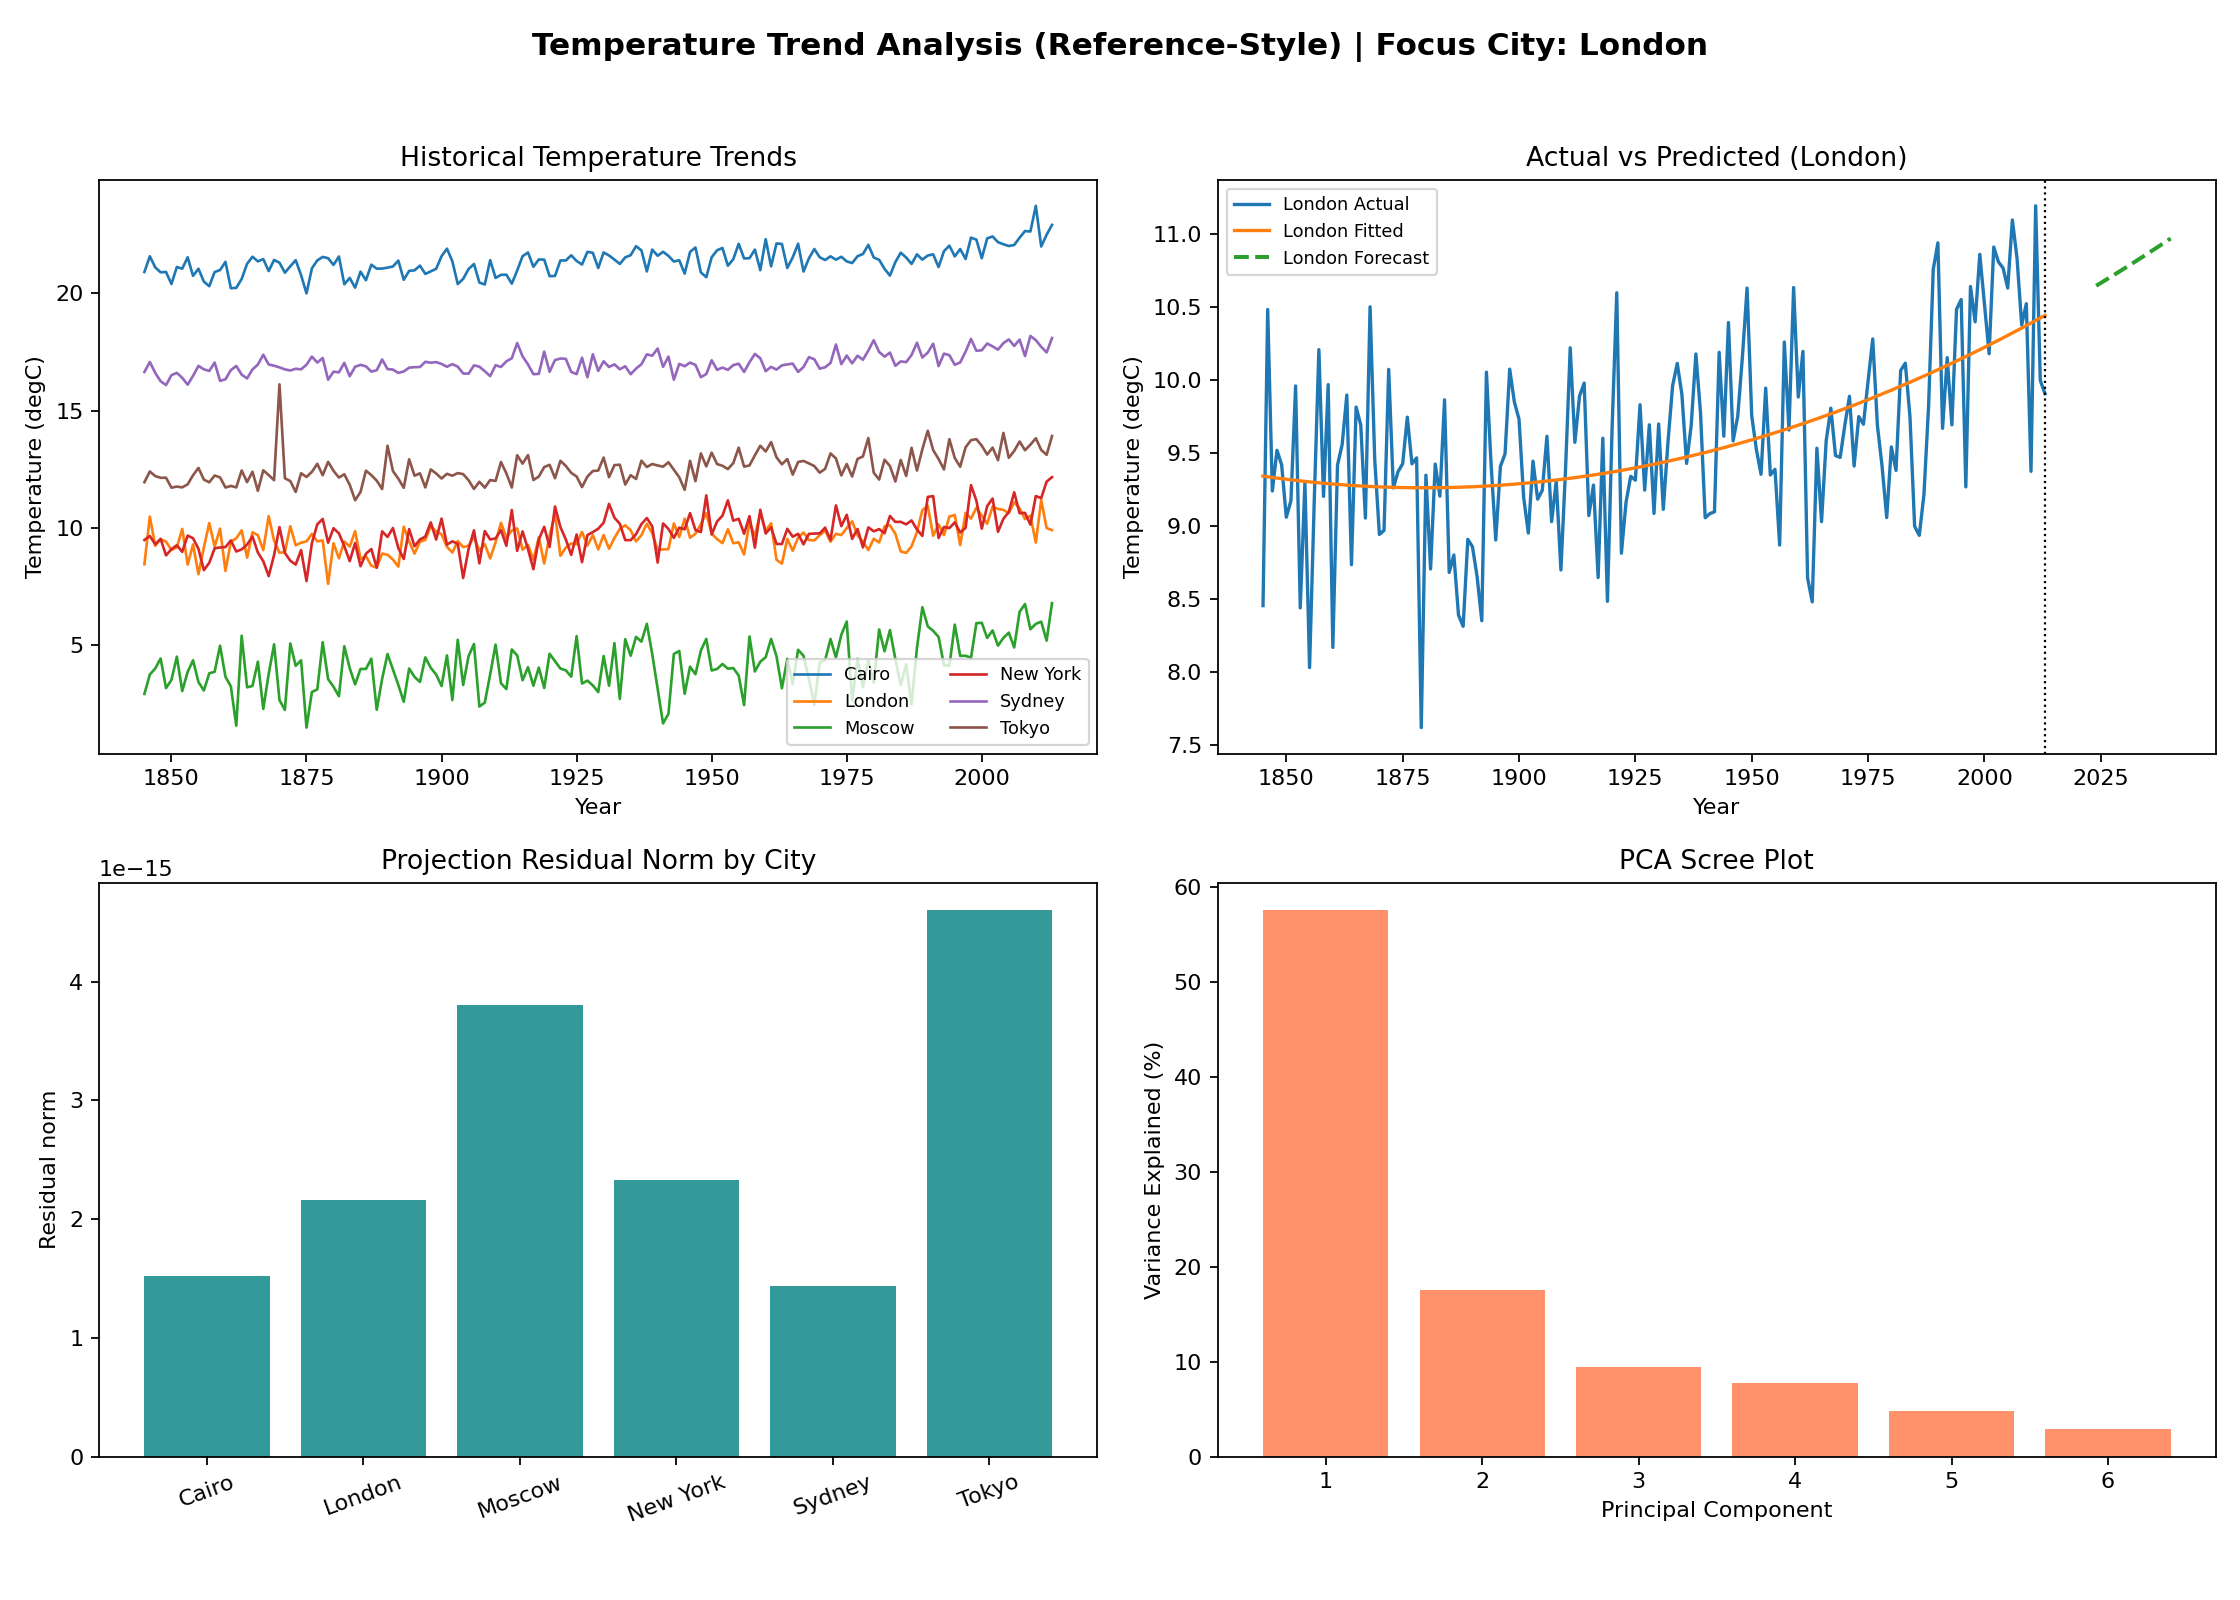
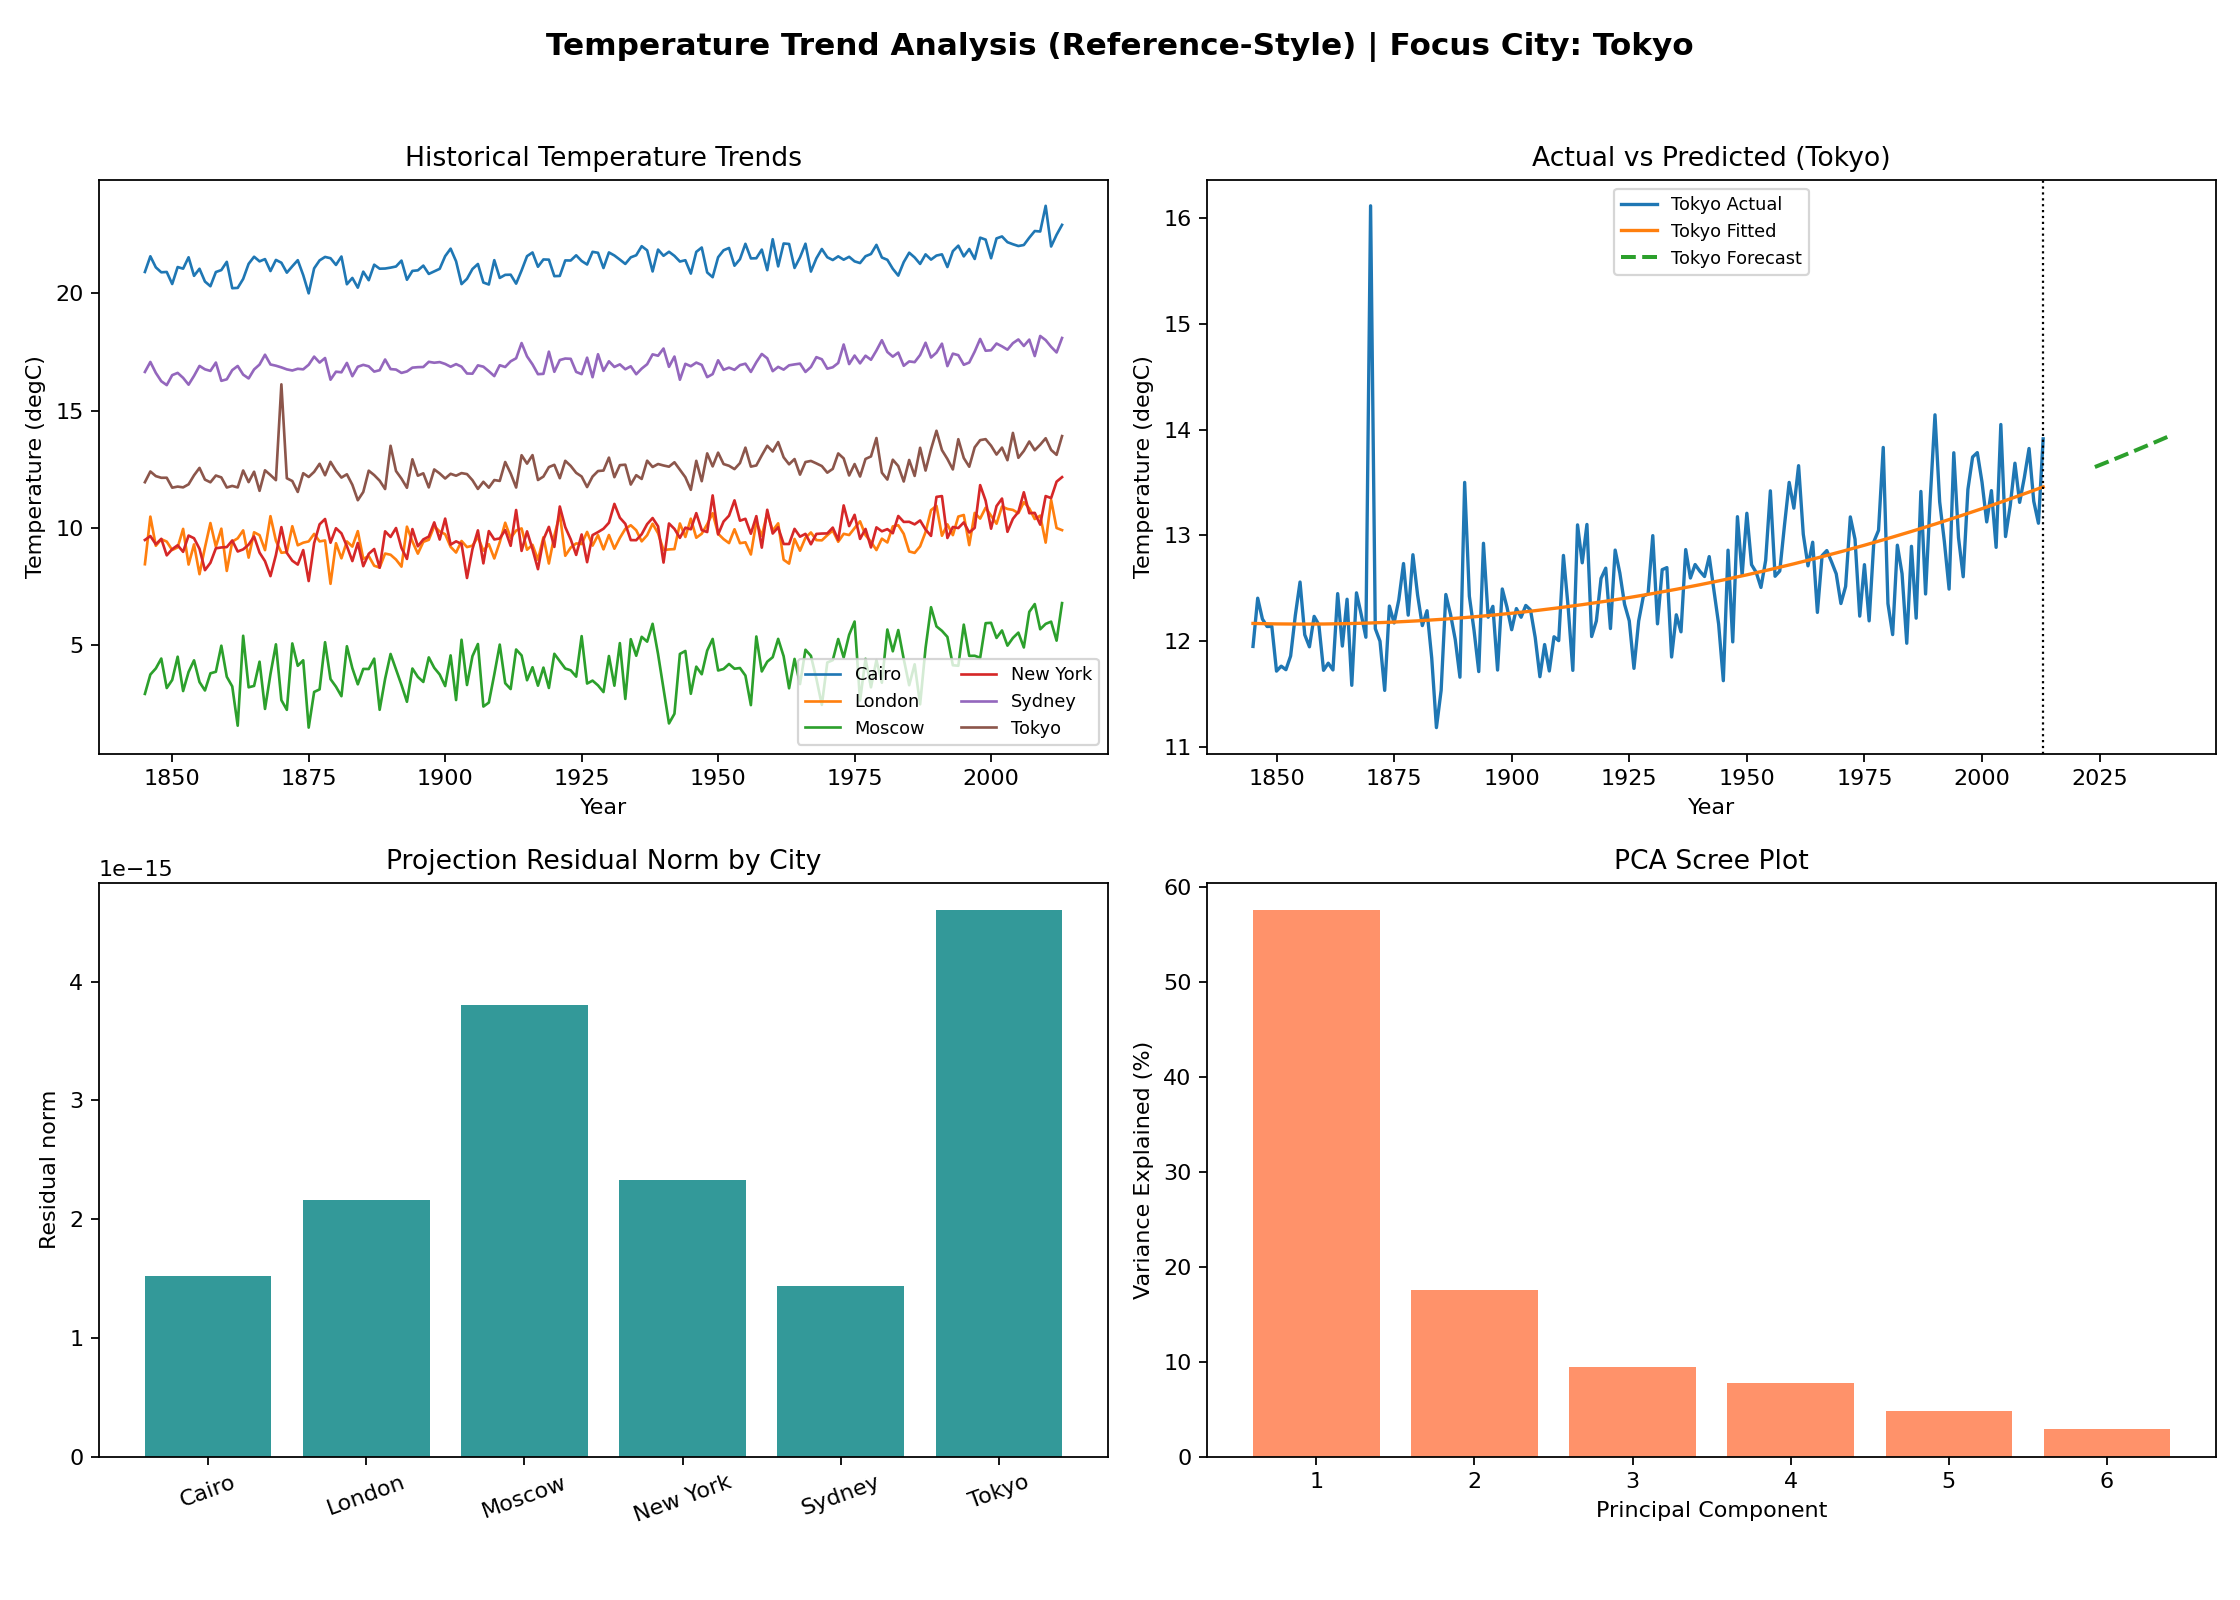
.

diff --git a/temperature_analysis.py b/temperature_analysis.py
@@ -145,7 +145,7 @@ cwr(
 
 # STEP 4: BASIS AND ORTHOGONAL BASIS FORMATION
 section("STEP 4: BASIS AND ORTHOGONAL BASIS FORMATION")
-R_full, basis_indices = rref(A_centered)
+R_full, basis_indices = rref(A_centered.T)
 B = A_centered[:, basis_indices]
 Q, _ = np.linalg.qr(B)
 Q = Q[:, : B.shape[1]]